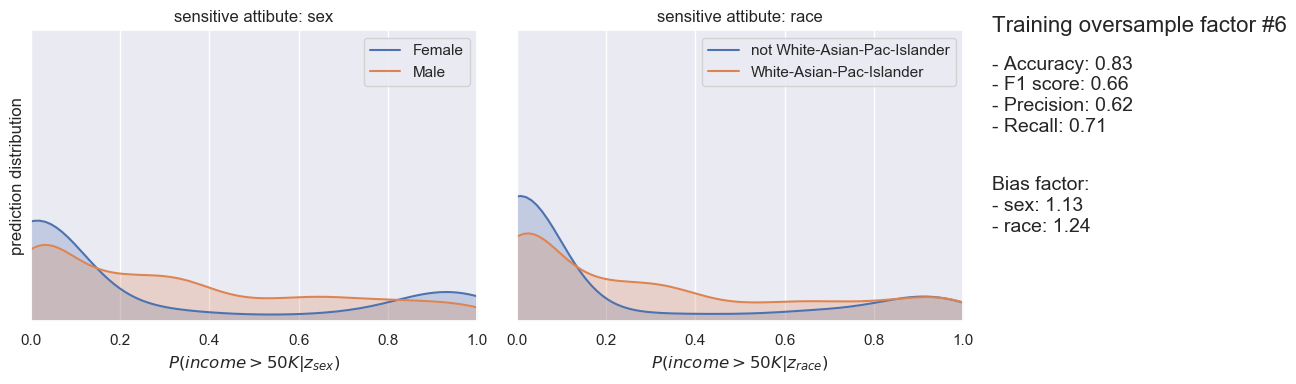
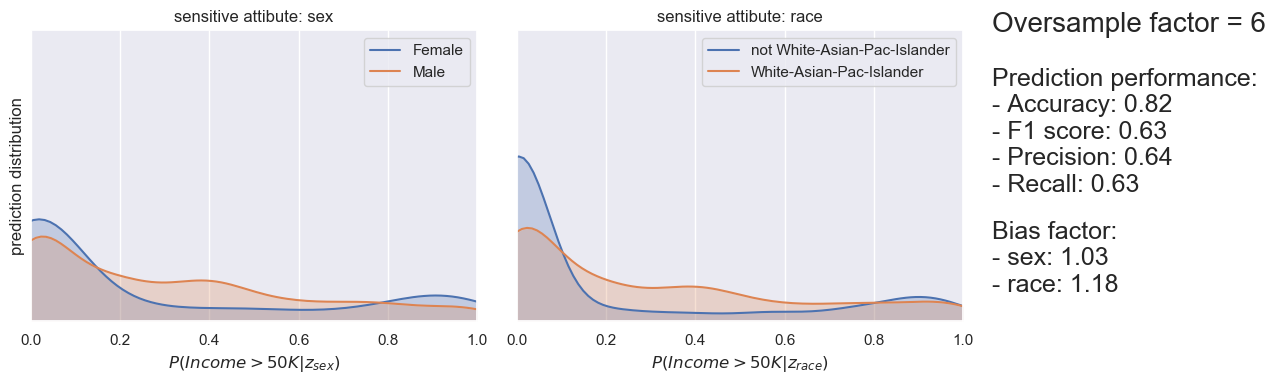
Update README.md and reorganise figures

diff --git a/README.md b/README.md
@@ -1,20 +1,23 @@
 # DebiasML
-a practical explainable approach to reducing bias in machine learning algorithms.
+a practical, explainable and effective approach to reducing bias in machine learning algorithms.
 
 ## Overview
 
 ### Problem Statement
 
-Machine learning is being used at an ever increasing rate to automate decisions that were previously made by humans. Decisions on job applications, college admissions  and sentencing guidelines (to name a few) can have life changing consequences for people so it’s important to be fair but the argument for reducing bias is not just an ethical one, it’s a financial one too. Multiple studies have found that teams that are more diverse significantly outperform teams that aren’t. In reducing bias in our algorithms we seek not just to replicate past performance but exceed it.
+Machine learning is being used at an ever increasing rate to automate decisions that were previously made by humans. Decisions on job applications, college admissions  and sentencing guidelines (to name a few) can have life changing consequences for people so it’s important to be fair but the argument for reducing bias is not just an ethical one, it’s a financial one too. Multiple studies have found that teams that are more diverse, significantly outperform teams that aren’t. In reducing bias in our algorithms we seek not just to replicate past performance but exceed it.
 
 ### Solution
 
-In DebiasML, I have developed a practical and explainable solution through novel application of oversampling. Though popular for data imbalance problems, oversampling has not been adopted to address bias. When tested on the Adult UCI dataset, DebiasML outperforms the state of the art (GANs) on many dimensions. It results in a significantly higher F1 score (+9%) whilst being equally accurate; training and inference are significantly cheaper; it is model agnostic, transparent and by construction improves diversity in its predictions.
+In DebiasML, I have developed a practical and explainable solution through novel application of oversampling. Though popular for data imbalance problems, oversampling has not been adopted to address bias. When tested on the Adult UCI dataset, DebiasML outperforms the state of the art (GANs) on many dimensions. It results in a significantly higher F1 score (as much as +17%) whilst being equally accurate; training and inference are significantly cheaper; it is model agnostic, transparent and by construction improves diversity in its predictions.
+
+The graphic below shows the distribution of predictions on the test set as it changes with the oversampling factor along with performance and bias metrics:
+![oversample gif](https://github.com/leenamurgai/debias-ml/static/oversample.gif)
 
 ### Resource list
 - **Blog post** explaining the problem, solution approach and results will be linked to here when available
-- **Presentation slides** explaining the problem, solution approach and results in 5 mins are available here
-- **Streamlit report** showing data exploration and results can be found here
+- [**Presentation slides**](http://bit.ly/debias-ml-slides) explaining the problem, solution approach and results in 5 mins are available here
+- [**Streamlit report**](http://share.streamlit.io/0.25.0-cdyb/index.html?id=HpMQLQaCFmL4p2dgA86Wz9) showing data exploration and results can be found here
 
 ## Running the code on your machine
 
@@ -25,25 +28,28 @@ This repo uses conda's virtual environment for Python 3
 Install (mini)conda if not yet installed:
 
 For MacOS:
-```$ wget http://repo.continuum.io/miniconda/Miniconda-latest-MacOSX-x86_64.sh -O miniconda.sh
+```shell
+$ wget http://repo.continuum.io/miniconda/Miniconda-latest-MacOSX-x86_64.sh -O miniconda.sh
 $ chmod +x miniconda.sh
 $ ./miniconda.sh -b
 ```
 
 cd into the directory and create the conda virtual environment from environment.yml
-```$ conda env create -f environment.yml
+```shell
+$ conda env create -f environment.yml
 ```
 
 Activate the virtual environment:
-```$ source activate debias-ml
+```shell
+$ source activate debias-ml
 ```
 
 - anaconda
-- Python 3.6 (Keras/tensorflow does not currently work with Python 3.7 does not currently work with )
+- Python 3.6 (Keras/tensorflow does not currently work with Python 3.7)
 - [Streamlit](streamlit.io)
 
-#### Installation
-To install the package above, please run:
+### Running the code
+Type
 ```shell
-pip install -r requirements
+$ python source/adult_uci.py
 ```
